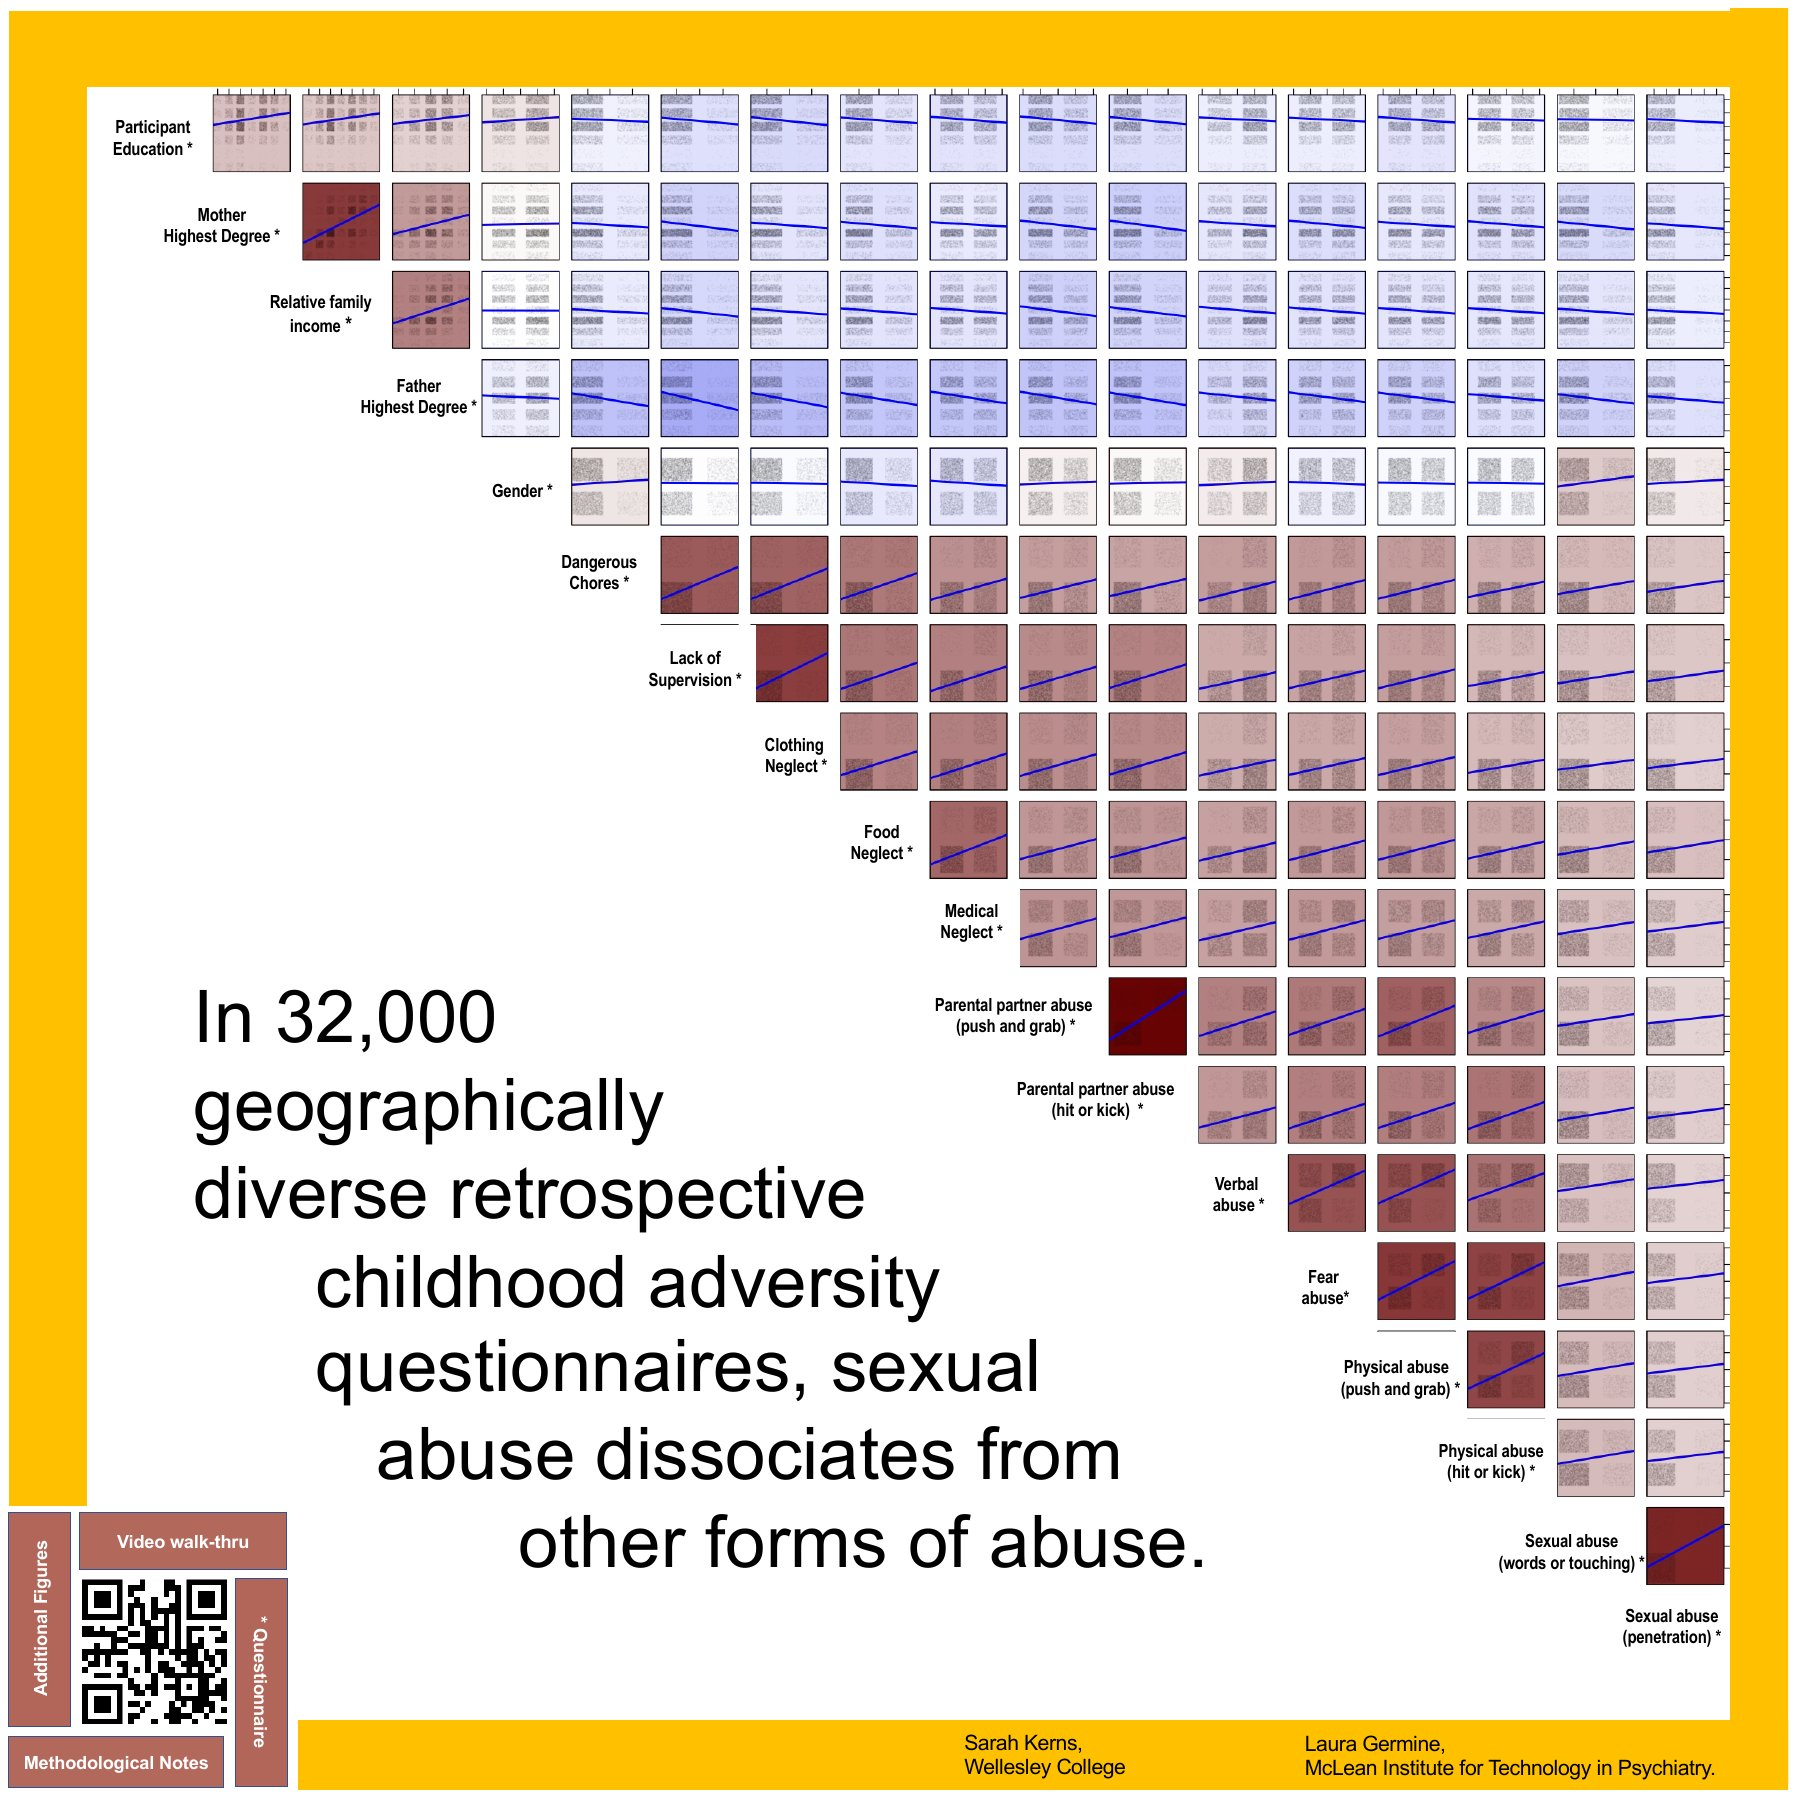
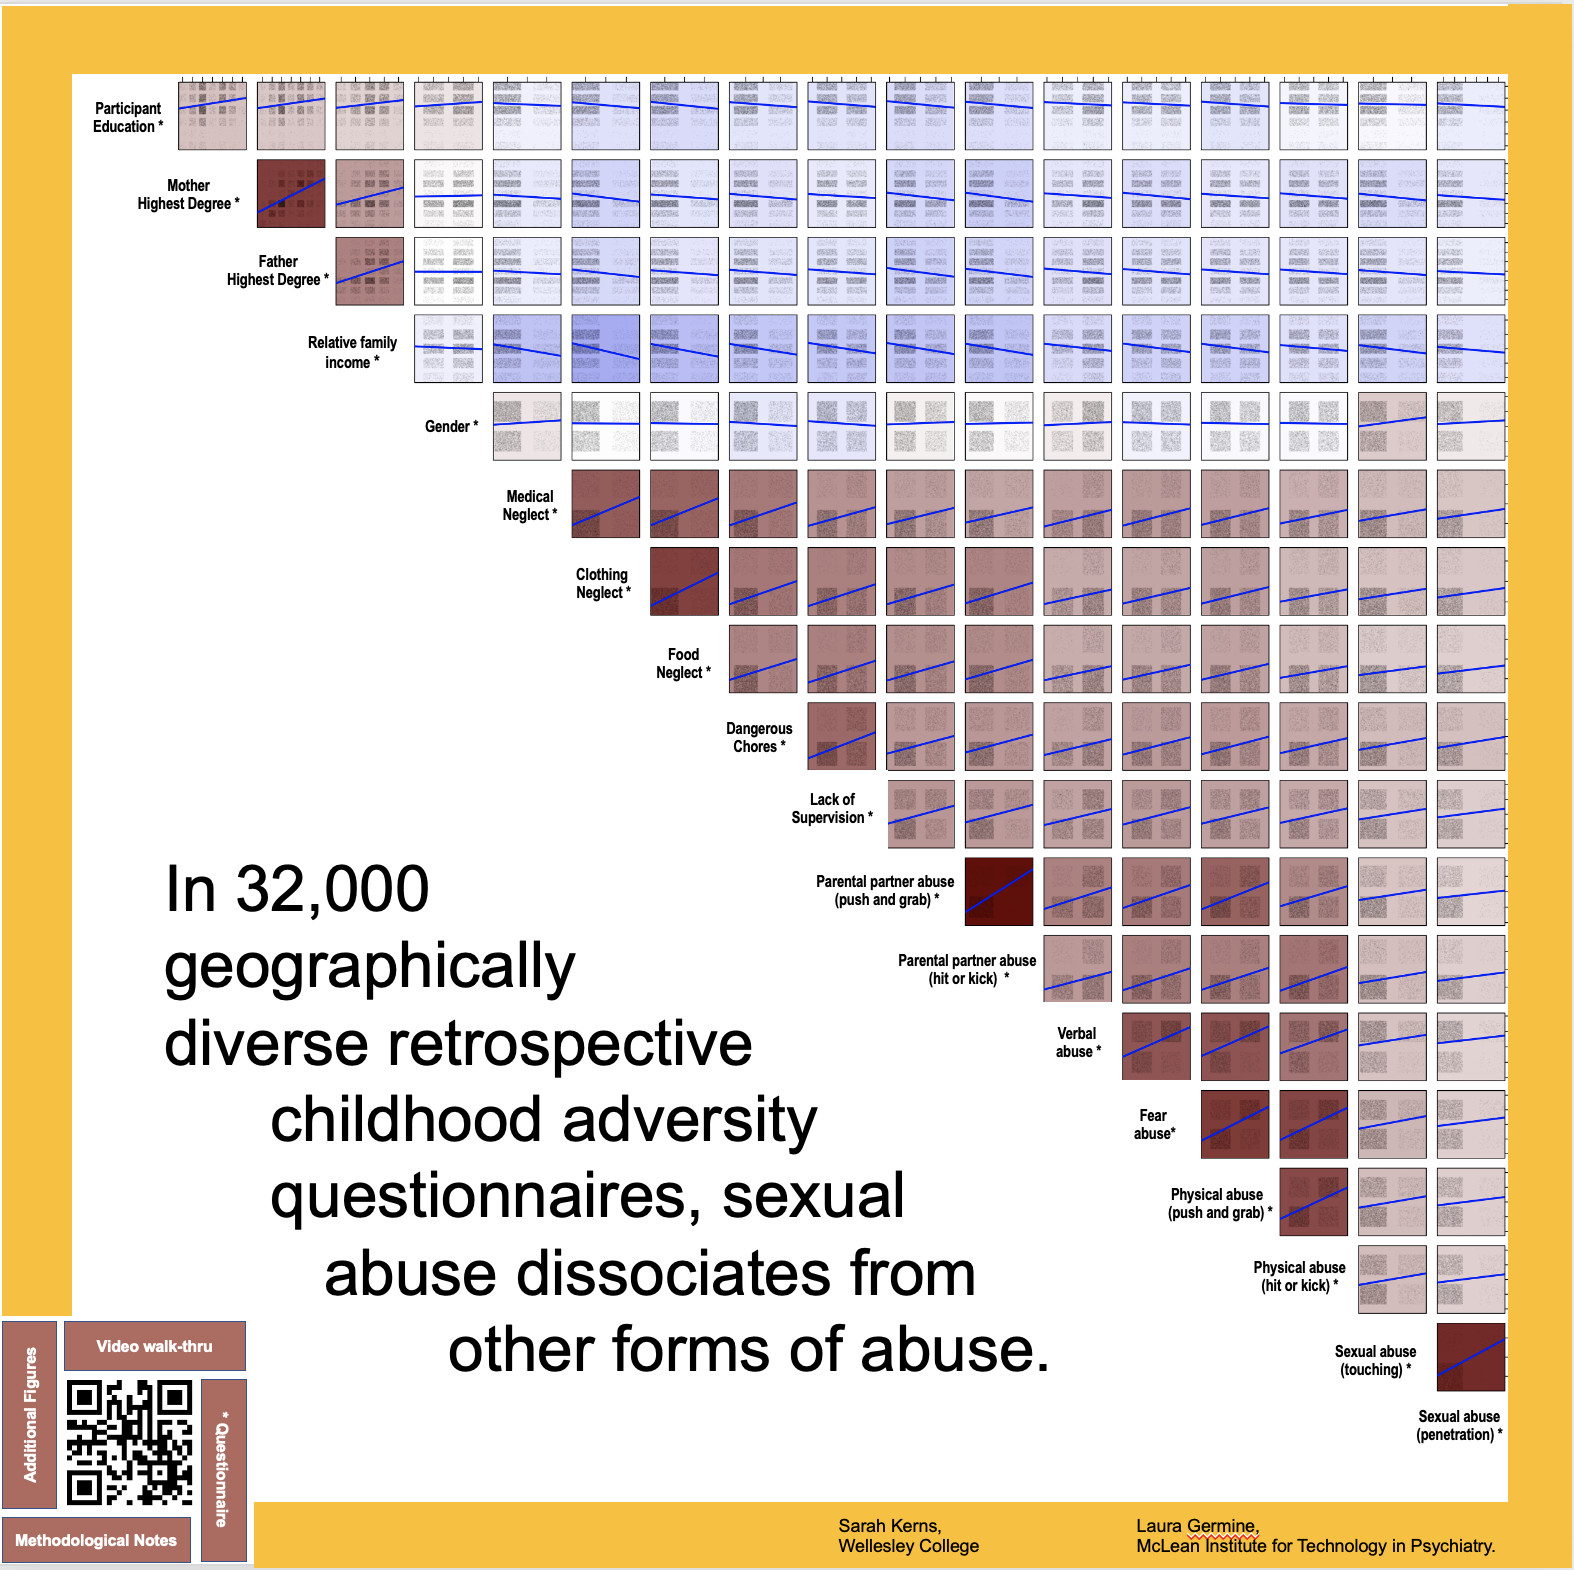
Replace ISTSS 2022 poster image and thumbnail with the info-doc version (corrected label order)

diff --git a/areas/trauma.html b/areas/trauma.html
@@ -45,7 +45,7 @@
 </article>
   <h3 class="works-h3">Presentations</h3>
   <ol class="pub-list">
-    <li class="pub pub--thumb"><span class="pub-kind">Peer-reviewed poster</span><p class="pub-apa"><strong>Kerns, S. H.</strong>, &amp; Germine, L. (2022, November). <i>Exploring the childhood trauma monolith: A large-scale multivariate analysis of childhood adversity</i>. Poster, International Society for Traumatic Stress Studies (ISTSS) Annual Meeting, Atlanta, GA.</p><p class="pub-links"><a class="badge link-pill" href="https://docs.google.com/document/d/1zXSDHqpP72oBileZhY6CNsgs7yzE568_GCRNopXt2yQ/edit?usp=sharing" target="_blank" rel="noopener">Link: extra graphs and info</a></p><a class="pub-thumb" href="../posters/istss2022-childhood-trauma-monolith.html" aria-label="View poster: Exploring the childhood trauma monolith: A large-scale multivariate analysis of childhood adversity"><img src="../images/posters/istss2022-childhood-trauma-monolith_thumb.jpg" width="360" height="360" loading="lazy" alt="Thumbnail of the poster Exploring the childhood trauma monolith: A large-scale multivariate analysis of childhood adversity"></a></li>
+    <li class="pub pub--thumb"><span class="pub-kind">Peer-reviewed poster</span><p class="pub-apa"><strong>Kerns, S. H.</strong>, &amp; Germine, L. (2022, November). <i>Exploring the childhood trauma monolith: A large-scale multivariate analysis of childhood adversity</i>. Poster, International Society for Traumatic Stress Studies (ISTSS) Annual Meeting, Atlanta, GA.</p><p class="pub-links"><a class="badge link-pill" href="https://docs.google.com/document/d/1zXSDHqpP72oBileZhY6CNsgs7yzE568_GCRNopXt2yQ/edit?usp=sharing" target="_blank" rel="noopener">Link: extra graphs and info</a></p><a class="pub-thumb" href="../posters/istss2022-childhood-trauma-monolith.html" aria-label="View poster: Exploring the childhood trauma monolith: A large-scale multivariate analysis of childhood adversity"><img src="../images/posters/istss2022-childhood-trauma-monolith_thumb.jpg" width="360" height="359" loading="lazy" alt="Thumbnail of the poster Exploring the childhood trauma monolith: A large-scale multivariate analysis of childhood adversity"></a></li>
   </ol>
 </section>
 <section class="works area-sub" id="social-psych" aria-labelledby="social-psych-h">

diff --git a/posters/istss2022-childhood-trauma-monolith.html b/posters/istss2022-childhood-trauma-monolith.html
@@ -30,7 +30,7 @@
 </div>
 <article class="card prose">
 <p class="pub-apa poster-cite"><strong>Kerns, S. H.</strong>, &amp; Germine, L. (2022, November). <i>Exploring the childhood trauma monolith: A large-scale multivariate analysis of childhood adversity</i>. Poster, International Society for Traumatic Stress Studies (ISTSS) Annual Meeting, Atlanta, GA.</p>
-<figure class="poster-full"><a href="../images/posters/istss2022-childhood-trauma-monolith.jpg"><img src="../images/posters/istss2022-childhood-trauma-monolith.jpg" width="1796" height="1797" alt="Poster: Exploring the childhood trauma monolith: A large-scale multivariate analysis of childhood adversity"></a></figure>
+<figure class="poster-full"><a href="../images/posters/istss2022-childhood-trauma-monolith.jpg"><img src="../images/posters/istss2022-childhood-trauma-monolith.jpg" width="1574" height="1570" alt="Poster: Exploring the childhood trauma monolith: A large-scale multivariate analysis of childhood adversity"></a></figure>
 <p class="poster-links"><a class="badge link-pill" href="https://docs.google.com/document/d/1zXSDHqpP72oBileZhY6CNsgs7yzE568_GCRNopXt2yQ/edit?usp=sharing" target="_blank" rel="noopener">Link: extra graphs and info</a> <a href="../images/posters/istss2022-childhood-trauma-monolith.jpg">Full-size image</a> <a href="../areas/trauma.html">← Adversity, Social, and Legal Psych</a></p>
 </article>
 </main>
